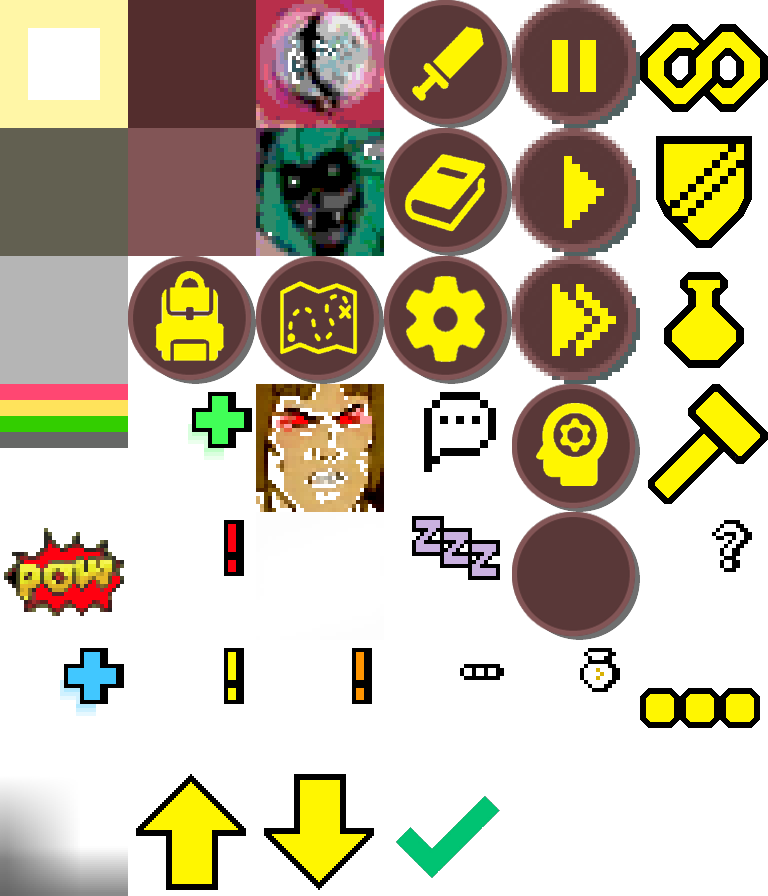
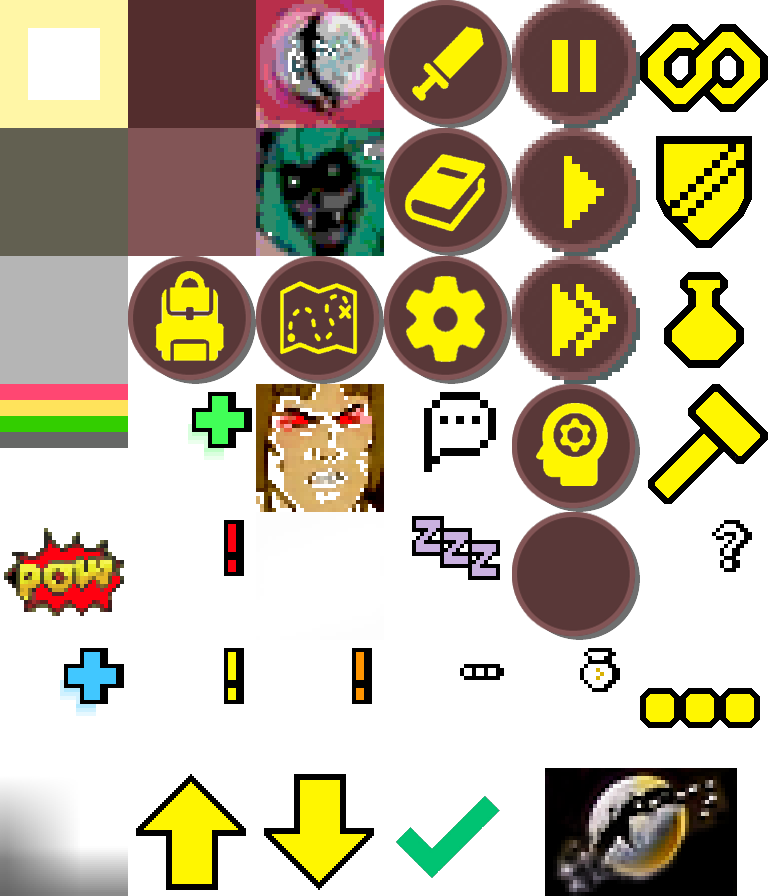
tweaks

Changed region(s): [[0.6875, 0.8438, 0.9688, 1.0]]

diff --git a/src/main/kotlin/ui/modals/LoadingModal.kt b/src/main/kotlin/ui/modals/LoadingModal.kt
@@ -2,6 +2,7 @@ package ui.modals
 
 import render.Screen
 import render.batches.QuadBatch
+import render.tilesets.Glyph
 import render.tilesets.UITileSet
 import util.log
 import world.gen.Metamap
@@ -11,7 +12,8 @@ import java.lang.Float.min
 class LoadingModal(
     text: String,
     val withProgress: Boolean = false,
-    val forceUp: Boolean = false
+    val forceUp: Boolean = false,
+    val withMoon: Boolean = false,
 ) : SplashModal(text, forceHeight = if (withProgress) 100 else 60) {
 
     companion object {
@@ -65,6 +67,18 @@ class LoadingModal(
             boxBatch.addHealthBar(
                 x + padding, y + 65, x + width - (padding), y + 85,
                 (progress * 100f).toInt(), 101, allGreen = true
+            )
+        }
+        if (withMoon) {
+            var a = progress * 2f
+            if (a > 1f) a += ((a - 1f) * -2f)
+            boxBatch.addPixelQuad(
+                (Screen.width / 2) - 128, 200, Screen.width / 2, 328,
+                boxBatch.getTextureIndex(Glyph.MOON_BANNER_L), alpha = a
+            )
+            boxBatch.addPixelQuad(
+                (Screen.width / 2), 200, (Screen.width / 2) + 129, 328,
+                boxBatch.getTextureIndex(Glyph.MOON_BANNER_R), alpha = a
             )
         }
     }

diff --git a/src/main/kotlin/ui/modals/WorkbenchModal.kt b/src/main/kotlin/ui/modals/WorkbenchModal.kt
@@ -13,7 +13,7 @@ import java.lang.Math.min
 
 class WorkbenchModal(
     val bench: Workbench
-) : Modal(600, 500, title = bench.name(), position = Position.LEFT) {
+) : Modal(600, 500, title = bench.workbenchTitle(), position = Position.LEFT) {
 
     companion object {
         private const val minHeight = 300
@@ -23,7 +23,7 @@ class WorkbenchModal(
     private val spacing = 27
     private val col2x = 300
     private val headerPad = 210
-    private val wrappedDesc = wrapText(bench.examineDescription() + "\n \nWhat will you ${bench.craftVerb()}?", width - 64, padding, Screen.font)
+    private val wrappedDesc = wrapText(bench.workbenchDescription() + "\n \nWhat will you ${bench.craftVerb()}?", width - 64, padding, Screen.font)
 
     private val allRecipes = bench.getRecipes()
     private val goodRecipes = mutableListOf<Recipe>()
@@ -154,7 +154,7 @@ class WorkbenchModal(
         val y0 = y + padding
         val batch = myThingBatch()
         batch?.addPixelQuad(x0, y0, x0 + 64, y0 + 64,
-            batch.getTextureIndex(bench.glyph()),
+            batch.getTextureIndex(bench.workbenchGlyph()),
             hue = bench.hue())
 
         goodRecipes.forEachIndexed { i, recipe ->

diff --git a/src/main/kotlin/things/recipes/ImprovRecipe.kt b/src/main/kotlin/things/recipes/ImprovRecipe.kt
@@ -17,3 +17,12 @@ object StoneAxeRecipe : ImprovRecipe() {
     override fun glyph() = Glyph.AXE
     override fun difficulty() = -1f
 }
+
+object StoneAxeRecipe2 : ImprovRecipe() {
+    override fun name() = "stone axe"
+    override fun description() = "A rock chipped sharp and tied to a length of rebar makes a somewhat usable axe."
+    override fun ingredients() = listOf(Thing.Tag.THING_REBAR, Thing.Tag.THING_ROCK)
+    override fun product() = StoneAxe()
+    override fun glyph() = Glyph.AXE
+    override fun difficulty() = -1f
+}

diff --git a/src/main/kotlin/actors/Player.kt b/src/main/kotlin/actors/Player.kt
@@ -469,6 +469,8 @@ open class Player : Actor(), Workbench {
         craftingWith = ingredient
         Screen.addModal(WorkbenchModal(this))
     }
-
+    override fun workbenchDescription() = craftingWith?.description() ?: ""
+    override fun workbenchGlyph() = craftingWith?.glyph() ?: Glyph.BLANK
+    override fun workbenchTitle() = craftingWith?.let { "craft with " + it.name() } ?: "craft"
     override fun benchCanMake(recipe: Recipe) = recipe is ImprovRecipe
 }

diff --git a/src/main/kotlin/things/Workbench.kt b/src/main/kotlin/things/Workbench.kt
@@ -20,8 +20,11 @@ interface Workbench {
     fun name(): String
     fun isNextTo(actor: Actor): Boolean
     fun examineDescription(): String
+    fun workbenchDescription() = examineDescription()
     fun glyph(): Glyph
+    fun workbenchGlyph() = glyph()
     fun hue(): Float
+    fun workbenchTitle() = name()
 
     fun getPossibleRecipes(crafter: Actor) {
         val recipes = mutableListOf<Recipe>()

diff --git a/src/main/kotlin/App.kt b/src/main/kotlin/App.kt
@@ -290,7 +290,7 @@ object App : KtxGame<com.badlogic.gdx.Screen>() {
             player.tempInvisible = true
 
             val loadingModal = LoadingModal(
-                "Loading initial world...", withProgress = true, forceUp = true
+                "Loading initial world...", withProgress = true, forceUp = true, withMoon = true
             )
             Screen.addModal(loadingModal)
 

diff --git a/src/main/kotlin/render/tilesets/UITileSet.kt b/src/main/kotlin/render/tilesets/UITileSet.kt
@@ -44,4 +44,6 @@ fun UITileSet() =
         setTile(Glyph.ARROW_UP, SimpleTile(this, 1, 6))
         setTile(Glyph.ARROW_DOWN, SimpleTile(this, 2, 6))
         setTile(Glyph.CHECK_MARK, SimpleTile(this, 3, 6))
+        setTile(Glyph.MOON_BANNER_L, SimpleTile(this, 4, 6))
+        setTile(Glyph.MOON_BANNER_R, SimpleTile(this, 5, 6))
     }

diff --git a/src/main/kotlin/things/recipes/Recipe.kt b/src/main/kotlin/things/recipes/Recipe.kt
@@ -18,7 +18,8 @@ abstract class Recipe {
             StoneAxeRecipe,
         )
         val improv = listOf(
-            StoneAxeRecipe
+            StoneAxeRecipe,
+            StoneAxeRecipe2,
         )
 
         fun recipesFor(ingredient: Thing.Tag, improvOnly: Boolean = false): Set<Recipe> = mutableSetOf<Recipe>().apply {

diff --git a/src/main/kotlin/render/tilesets/Glyph.kt b/src/main/kotlin/render/tilesets/Glyph.kt
@@ -82,6 +82,8 @@ enum class Glyph(val tall: Boolean = false) {
     ARROW_UP,
     ARROW_DOWN,
     CHECK_MARK,
+    MOON_BANNER_L,
+    MOON_BANNER_R,
 
     PLAYER,
     PEASANT_PALE_DARK,
